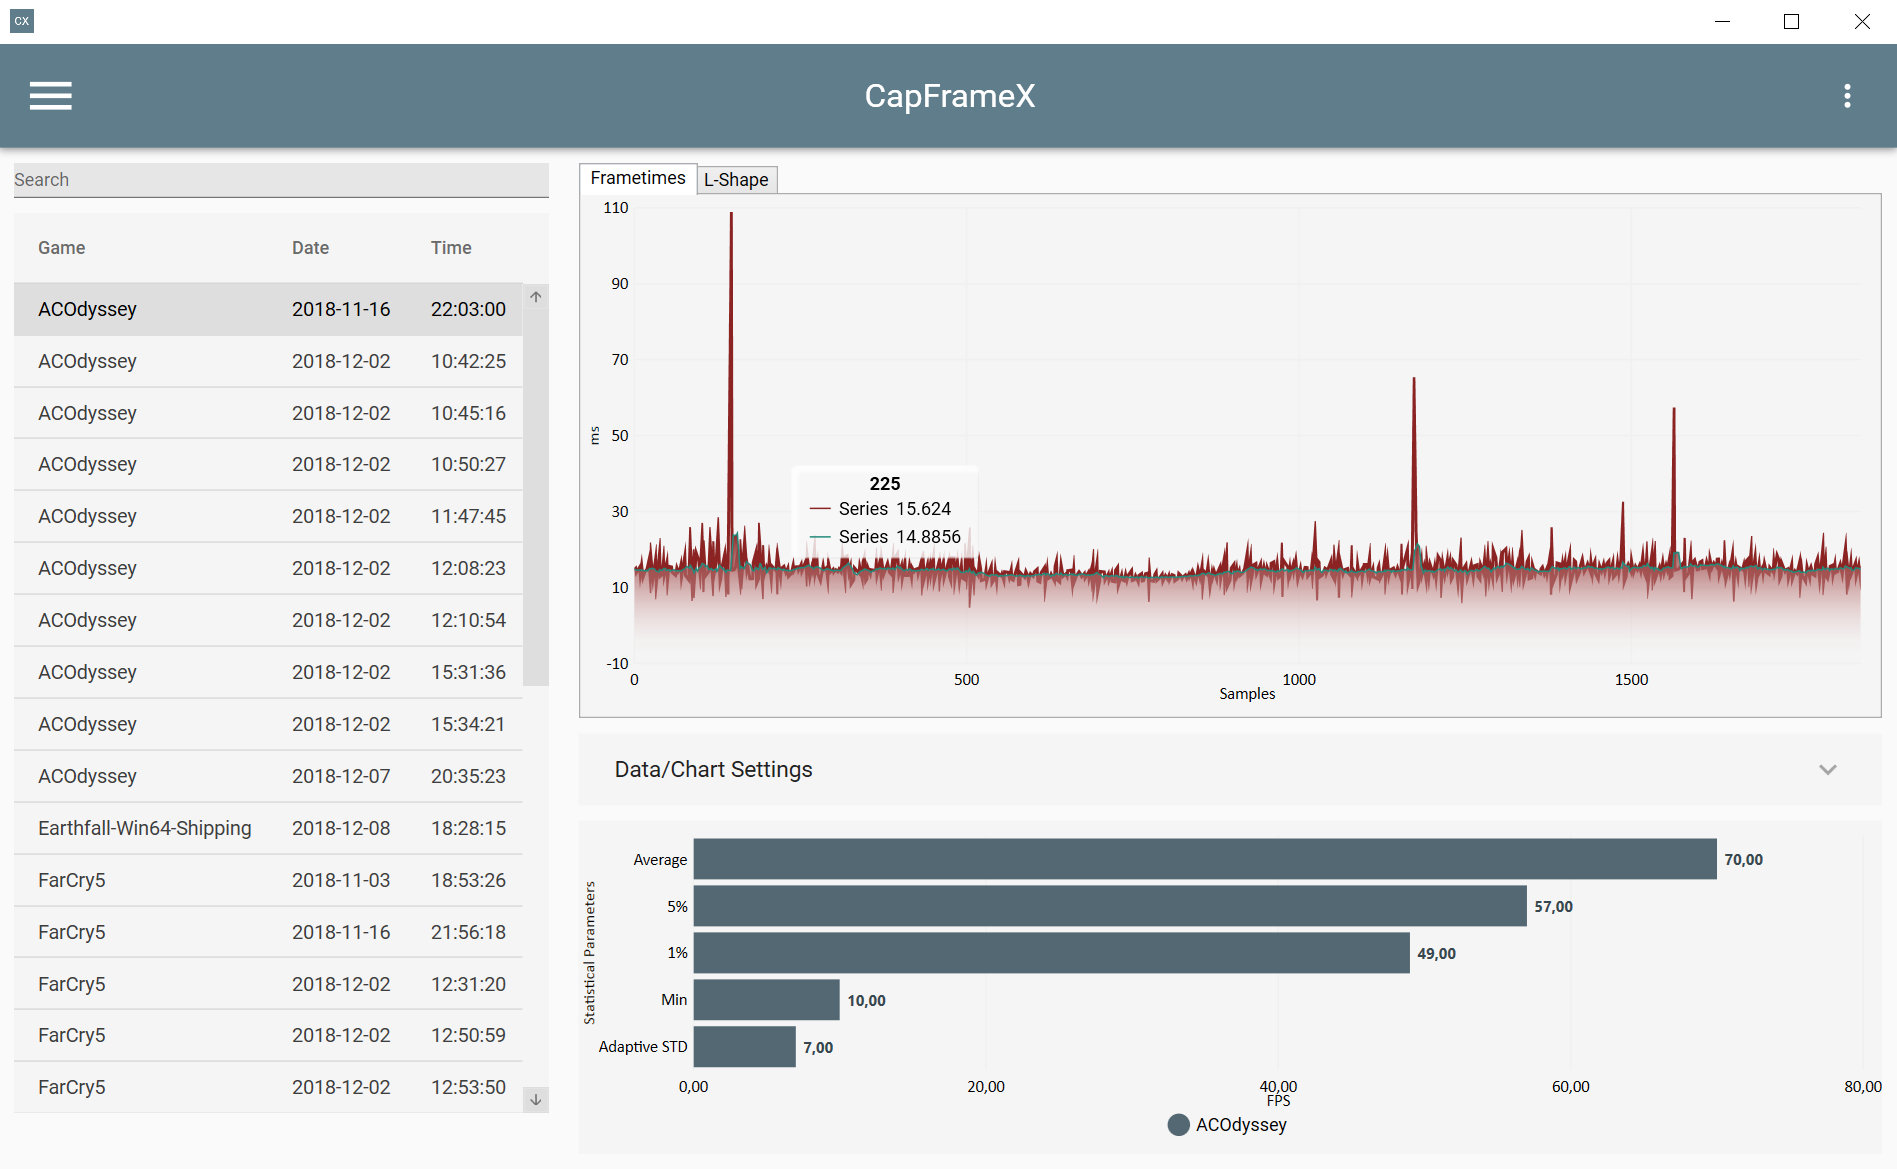
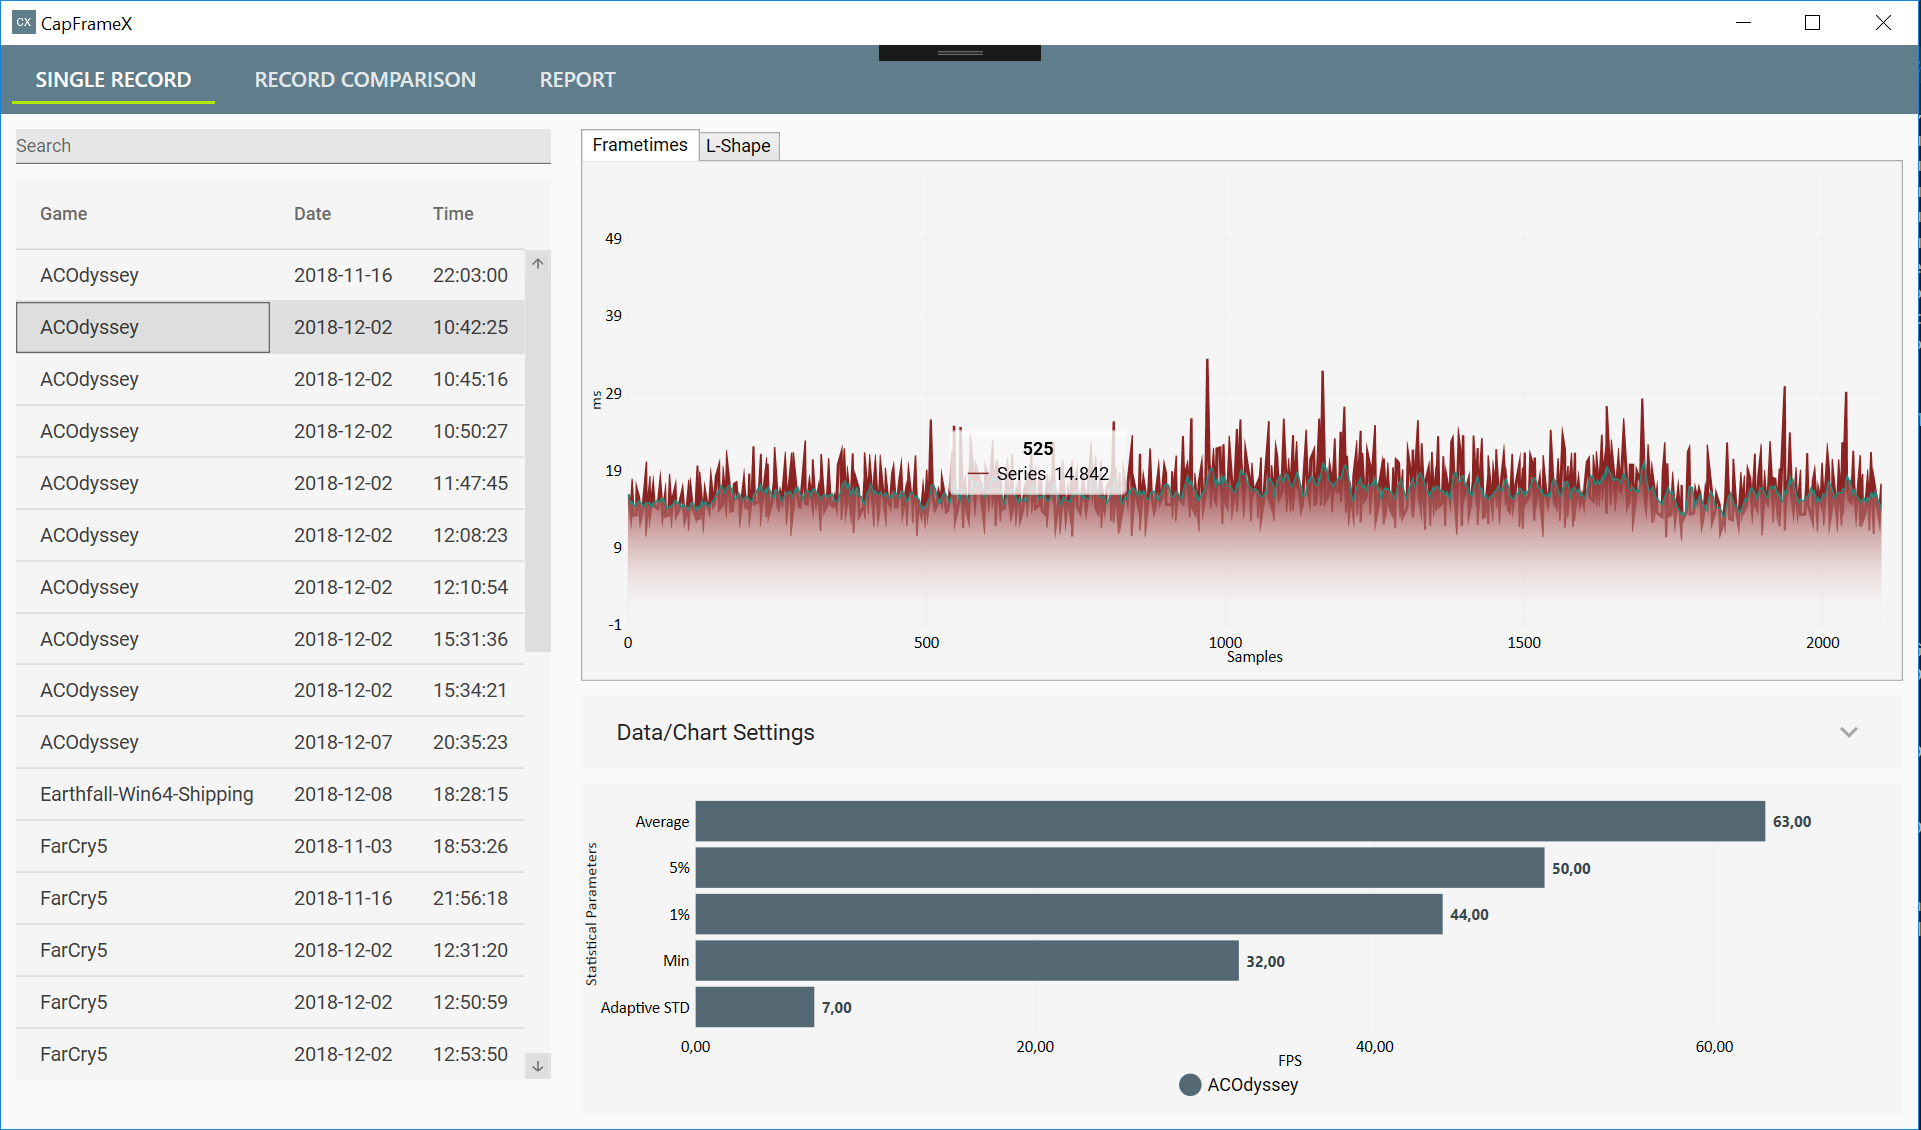
Internal and external drag & drop control for records (DataGrid entries)

diff --git a/CapFrameX.View/ControlView.xaml b/CapFrameX.View/ControlView.xaml
@@ -5,6 +5,7 @@
              xmlns:d="http://schemas.microsoft.com/expression/blend/2008"
 			 xmlns:materialDesign="http://materialdesigninxaml.net/winfx/xaml/themes"
 			 xmlns:prism="http://prismlibrary.com/"
+			 xmlns:dragdrop="urn:gong-wpf-dragdrop"
              xmlns:local="clr-namespace:CapFrameX.View"
              mc:Ignorable="d" 
              d:DesignHeight="450" d:DesignWidth="800"
@@ -23,12 +24,17 @@
 			<CollectionViewSource x:Key="RecordInfoListKey" Source="{Binding RecordInfoList}" Filter="RecordInfoListOnFilter"/>
 		</ResourceDictionary>
 	</UserControl.Resources>
-    <Grid>
+	<Grid>
 		<StackPanel>
 			<TextBox Margin="10 10 10 0" Background="#e6e6e6" Name="RecordSearchBox" materialDesign:HintAssist.Hint="Search" />
 			<DataGrid Height="600" Background="#F5F5F5" Margin="10" ItemsSource="{Binding Source={StaticResource RecordInfoListKey}}" SelectedItem="{Binding SelectedRecordInfo}" CanUserSortColumns="True" CanUserAddRows="False" AutoGenerateColumns="False"
-									  materialDesign:DataGridAssist.CellPadding="13 8 8 8" materialDesign:DataGridAssist.ColumnHeaderPadding="8"
-									  ScrollViewer.VerticalScrollBarVisibility="Auto" ScrollViewer.CanContentScroll="True">
+					  materialDesign:DataGridAssist.CellPadding="13 8 8 8" materialDesign:DataGridAssist.ColumnHeaderPadding="8"
+					  ScrollViewer.VerticalScrollBarVisibility="Auto" ScrollViewer.CanContentScroll="True"
+					  dragdrop:DragDrop.IsDragSource="True"
+					  dragdrop:DragDrop.IsDropTarget="True"
+					  dragdrop:DragDrop.UseDefaultDragAdorner="True"
+					  dragdrop:DragDrop.DefaultDragAdornerOpacity="0.5"
+					  dragdrop:DragDrop.UseDefaultEffectDataTemplate="False">
 				<DataGrid.Columns>
 					<DataGridTextColumn Binding="{Binding GameName}"
                                         Header="Game"

diff --git a/CapFrameX.View/ComparisonDataView.xaml b/CapFrameX.View/ComparisonDataView.xaml
@@ -4,11 +4,27 @@
              xmlns:mc="http://schemas.openxmlformats.org/markup-compatibility/2006" 
              xmlns:d="http://schemas.microsoft.com/expression/blend/2008" 
              xmlns:local="clr-namespace:CapFrameX.View"
+			 xmlns:dragdrop="urn:gong-wpf-dragdrop"
 			 xmlns:prism="http://prismlibrary.com/"
              mc:Ignorable="d" 
              d:DesignHeight="450" d:DesignWidth="800"
 			 prism:ViewModelLocator.AutoWireViewModel="True">
-    <Grid>
-            
-    </Grid>
+	<Grid>
+		<ItemsControl VerticalAlignment="Center"
+					  HorizontalAlignment="Center"
+					  dragdrop:DragDrop.IsDropTarget="True"
+					  dragdrop:DragDrop.DropHandler="{Binding}"
+					  dragdrop:DragDrop.UseDefaultDragAdorner="True"
+					  dragdrop:DragDrop.DropTargetAdornerBrush="White"
+					  dragdrop:DragDrop.DefaultDragAdornerOpacity="0.5"
+					  dragdrop:DragDrop.UseDefaultEffectDataTemplate="False">
+			<Border BorderThickness="0" Margin="0" Width="100" Height="100">
+				<Image Source="/CapFrameX;component/Icons/CX_Icon.png"
+                           Width="90"
+                           Height="90"
+                           Margin="0">
+				</Image>
+			</Border>
+		</ItemsControl>
+	</Grid>
 </UserControl>

diff --git a/CapFrameX.ViewModel/ColorbarViewModel.cs b/CapFrameX.ViewModel/ColorbarViewModel.cs
@@ -1,4 +1,6 @@
-using Prism.Mvvm;
+using CapFrameX.EventAggregation.Messages;
+using Prism.Events;
+using Prism.Mvvm;
 using Prism.Regions;
 
 namespace CapFrameX.ViewModel
@@ -6,7 +8,9 @@ namespace CapFrameX.ViewModel
 	public class ColorbarViewModel : BindableBase
 	{
 		private readonly IRegionManager _regionManager;
+		private readonly IEventAggregator _eventAggregator;
 
+		private PubSubEvent<ViewMessages.ResetRecord> _resetRecordEvent;
 		private bool _singleRecordIsChecked = true;
 		private bool _recordComparisonIsChecked;
 		private bool _reportIsChecked;
@@ -50,25 +54,36 @@ namespace CapFrameX.ViewModel
 			}
 		}
 
-		public ColorbarViewModel(IRegionManager regionManager)
+		public ColorbarViewModel(IRegionManager regionManager, IEventAggregator eventAggregator)
 		{
 			_regionManager = regionManager;
+			_eventAggregator = eventAggregator;
+
+			SetAggregatorEvents();
 		}
 
 
 		private void OnSingleRecordIsCheckedChanged()
 		{
 			_regionManager.RequestNavigate("DataRegion", "DataView");
+			_resetRecordEvent.Publish(new ViewMessages.ResetRecord());
 		}
 
 		private void OnRecordComparisonIsCheckedChanged()
 		{
 			_regionManager.RequestNavigate("DataRegion", "ComparisonDataView");
+			_resetRecordEvent.Publish(new ViewMessages.ResetRecord());
 		}
 
 		private void OnReportIsCheckedChanged()
 		{
 			_regionManager.RequestNavigate("DataRegion", "ReportDataView");
+			_resetRecordEvent.Publish(new ViewMessages.ResetRecord());
+		}
+
+		private void SetAggregatorEvents()
+		{
+			_resetRecordEvent = _eventAggregator.GetEvent<PubSubEvent<ViewMessages.ResetRecord>>();
 		}
 	}
 }

diff --git a/CapFrameX.ViewModel/ComparisonDataViewModel.cs b/CapFrameX.ViewModel/ComparisonDataViewModel.cs
@@ -1,10 +1,22 @@
-using Prism.Mvvm;
+using CapFrameX.OcatInterface;
+using GongSolutions.Wpf.DragDrop;
+using Prism.Mvvm;
 using Prism.Regions;
+using System.Collections.ObjectModel;
+using System.Windows;
 
 namespace CapFrameX.ViewModel
 {
-	public class ComparisonDataViewModel : BindableBase, INavigationAware
+	public class ComparisonDataViewModel : BindableBase, INavigationAware, IDropTarget
 	{
+		public ObservableCollection<OcatRecordInfo> Items { get; }
+			= new ObservableCollection<OcatRecordInfo>();
+
+		public ComparisonDataViewModel()
+		{
+
+		}
+
 		public bool IsNavigationTarget(NavigationContext navigationContext)
 		{
 			return true;
@@ -12,12 +24,26 @@ namespace CapFrameX.ViewModel
 
 		public void OnNavigatedFrom(NavigationContext navigationContext)
 		{
-			
+
 		}
 
 		public void OnNavigatedTo(NavigationContext navigationContext)
 		{
-			
+
+		}
+
+		void IDropTarget.Drop(IDropInfo dropInfo)
+		{
+			//throw new System.NotImplementedException();
+		}
+
+		void IDropTarget.DragOver(IDropInfo dropInfo)
+		{
+			if (dropInfo != null)
+			{
+				dropInfo.DropTargetAdorner = DropTargetAdorners.Highlight;
+				dropInfo.Effects = DragDropEffects.Move;
+			}
 		}
 	}
 }

diff --git a/CapFrameX.ViewModel/ControlViewModel.cs b/CapFrameX.ViewModel/ControlViewModel.cs
@@ -9,6 +9,7 @@ using System.Linq;
 using System.Reactive.Linq;
 using System.Threading;
 using System.Collections.ObjectModel;
+using GongSolutions.Wpf.DragDrop;
 
 namespace CapFrameX.ViewModel
 {
@@ -37,7 +38,7 @@ namespace CapFrameX.ViewModel
 		public ControlViewModel(IRecordDirectoryObserver recordObserver, IEventAggregator eventAggregator)
 		{
 			_recordObserver = recordObserver;
-			_eventAggregator = eventAggregator;			
+			_eventAggregator = eventAggregator;
 
 			// ToDo: check wether to do this async
 			var initialRecordList = _recordObserver.GetAllRecordFileInfo();
@@ -57,6 +58,7 @@ namespace CapFrameX.ViewModel
 			_recordObserver.IsActive = true;
 
 			SetAggregatorEvents();
+			SubscribeToResetRecord();
 		}
 
 		private void OnSelectedRecordInfoChanged()
@@ -96,6 +98,15 @@ namespace CapFrameX.ViewModel
 		private void SetAggregatorEvents()
 		{
 			_updateSessionEvent = _eventAggregator.GetEvent<PubSubEvent<ViewMessages.UpdateSession>>();
+		}
+
+		private void SubscribeToResetRecord()
+		{
+			_eventAggregator.GetEvent<PubSubEvent<ViewMessages.ResetRecord>>()
+							.Subscribe(msg =>
+							{
+								SelectedRecordInfo = null;
+							});
 		}
 	}
 }

diff --git a/CapFrameX.View/ColorbarView.xaml.cs b/CapFrameX.View/ColorbarView.xaml.cs
@@ -1,4 +1,5 @@
 using CapFrameX.ViewModel;
+using Prism.Events;
 using Prism.Regions;
 using System.ComponentModel;
 using System.Windows.Controls;
@@ -17,7 +18,7 @@ namespace CapFrameX.View
 			// Design time!
 			if (DesignerProperties.GetIsInDesignMode(this))
 			{
-				DataContext = new ColorbarViewModel(new RegionManager());
+				DataContext = new ColorbarViewModel(new RegionManager(), new EventAggregator());
 			}
 		}
 	}

diff --git a/CapFrameX.ViewModel/DataViewModel.cs b/CapFrameX.ViewModel/DataViewModel.cs
@@ -360,6 +360,11 @@ namespace CapFrameX.ViewModel
 		public void OnNavigatedFrom(NavigationContext navigationContext)
 		{
 			_useUpdateSession = false;
+
+			//Reset data
+			SeriesCollection?.Clear();
+			LShapeCollection?.Clear();
+			StatisticCollection?.Clear();
 		}
 	}
 }

diff --git a/CapFrameX.EventAggregation/Messages/ViewMessages.cs b/CapFrameX.EventAggregation/Messages/ViewMessages.cs
@@ -15,5 +15,7 @@ namespace CapFrameX.EventAggregation.Messages
 				RecordInfo = recordInfo;
 			}
 		}
+
+		public class ResetRecord { }
 	}
 }

diff --git a/README.md b/README.md
@@ -1,5 +1,5 @@
 # CapFrameX
-Frame capture analysis tool (in process of developing)
+Frametimes analysis tool compatible with OCAT (in process of developing)
 
 ![Screenshot](Images/CX_UI.png)
 
